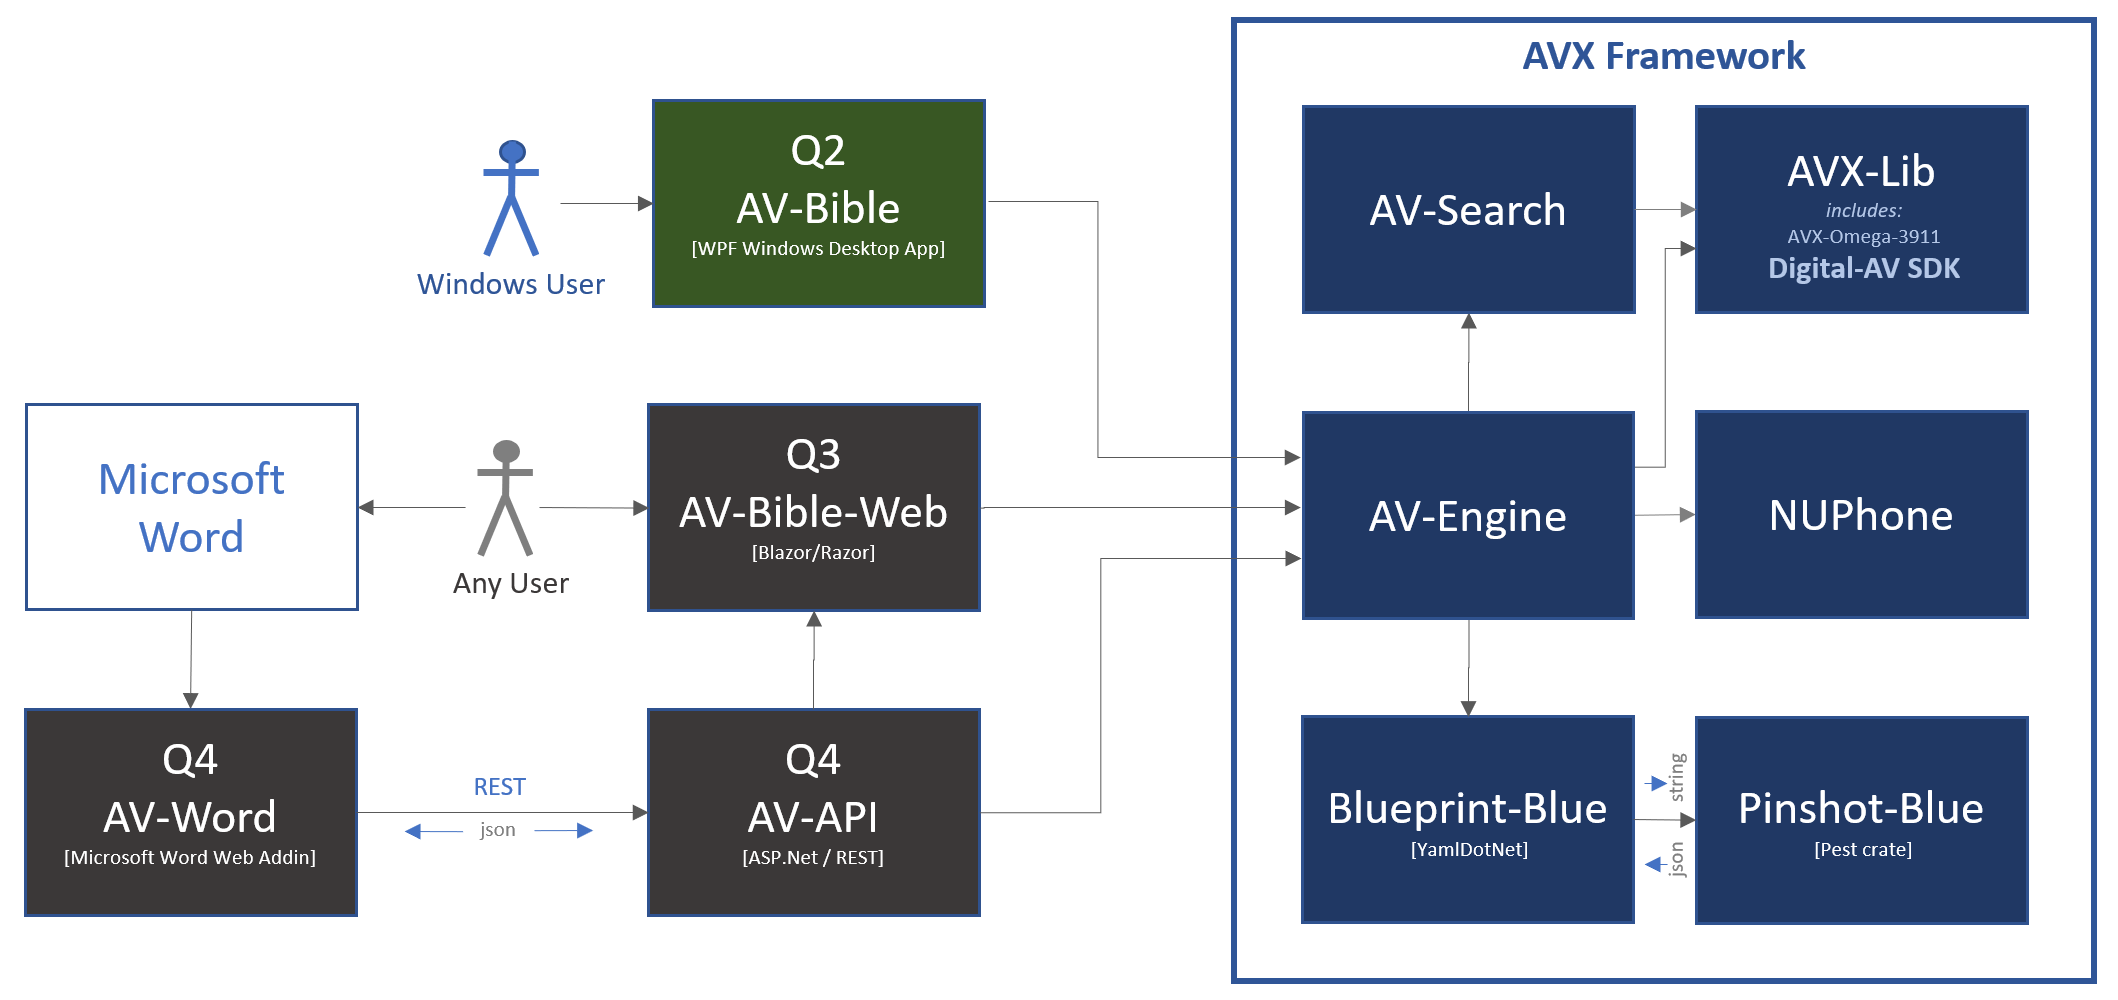
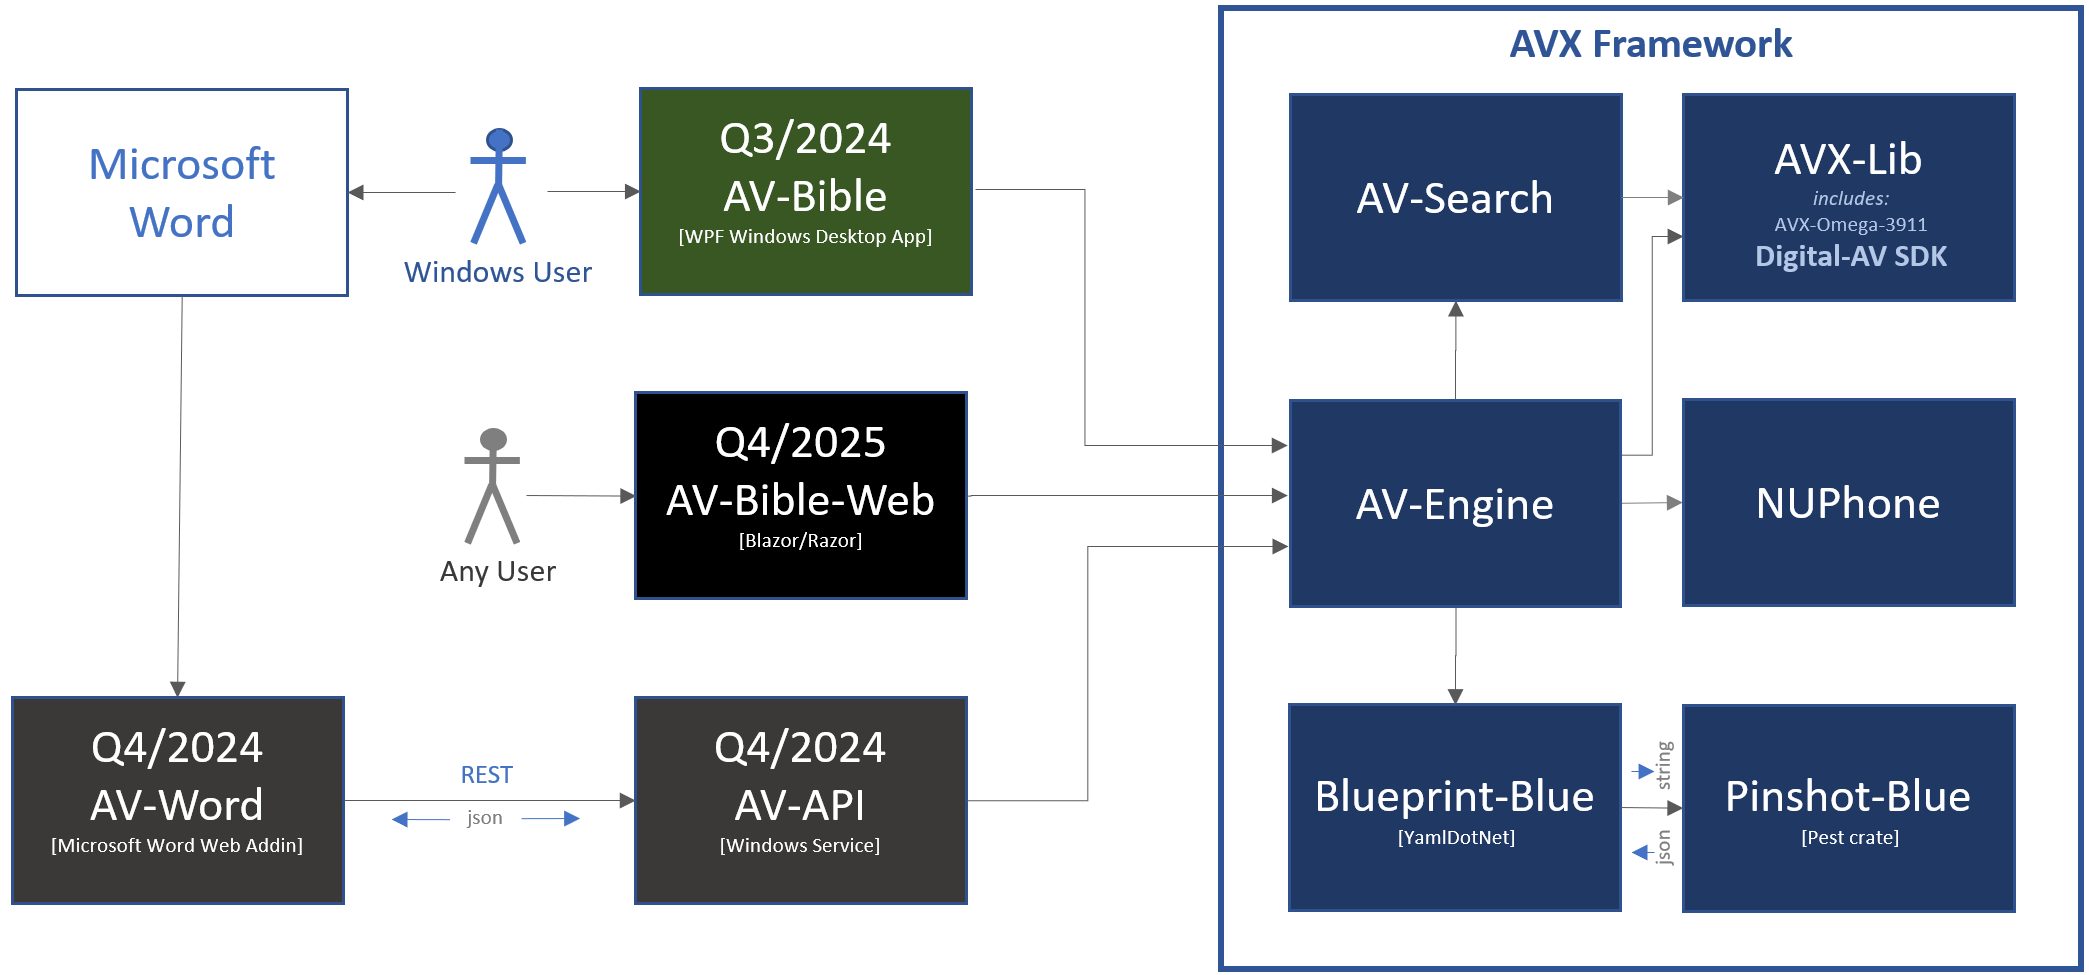
Updated roadmap

diff --git a/README.md b/README.md
@@ -117,15 +117,15 @@ AV-Console is available as of February 2024. This implementation is depicted in 
 
 **Figure 4-1**: Initial availability of AV-Console is in Q1/2024 [revision #4214; this console-app is a build-it-yourself release]
 
-I plan to release AV-Bible (Windows desktop [WPF] application) in the Microsoft Store in the second quarter of 2024. That release will gut the existing search engine of AV-Bible-2021.  A refactored AV-Bible-2024 will include a fully functional implementation of AVX-Framework. Figure 4-2, identifies this an additional release expected after AV-Bible-2024 becomes available in Q2.
+AV-Bible (Windows desktop [WPF] application) will be available in the Microsoft Store before the end of 2024. That release will gut the existing search engine of AV-Bible-2021 (pre-release MSI version is available now, upon request).  The refactored 2024 version of AV-Bible-2024 includes a fully functional implementation of AVX-Framework. Figure 4-2, identifies the roadmap of releases release for 2024 and 2025.
 
 ![](AVX-Roadmap-2024.png)
 
-**Figure 4-2**: Deployment Roadmap for AV-Bible and related artifacts in CY2024  [revision #4214]
+**Figure 4-2**: Deployment Roadmap for AV-Bible and related artifacts in CY2024 and CY2025 [revision #4616]
 
 ### Implementation Status
 
-All blue boxes are DLL libraries. Green boxes represent applications. Work will commence on the dark-gray boxes some time after AV-Bible-2024 is deployed to the Microsoft Store.  It's helpful to have this pic as a roadmap. As you can see, AVX-Framework is a dependency for all apps on the architectural roadmap.
+All blue boxes are DLL libraries. AV-Bible-2024, the Green box), will be released first. Shortly following that, the AV-Bible addin for Microsoft Word will be released (the two dark-gray boxes work together to provide search and reference capability directly inside of Microsoft Word. These two executables work in tandem to provide this functionality).  AV-Bible-We is not expected to be released until late 2025.
 
 All source-code can be found at https://github.com/kwonus. 
 
